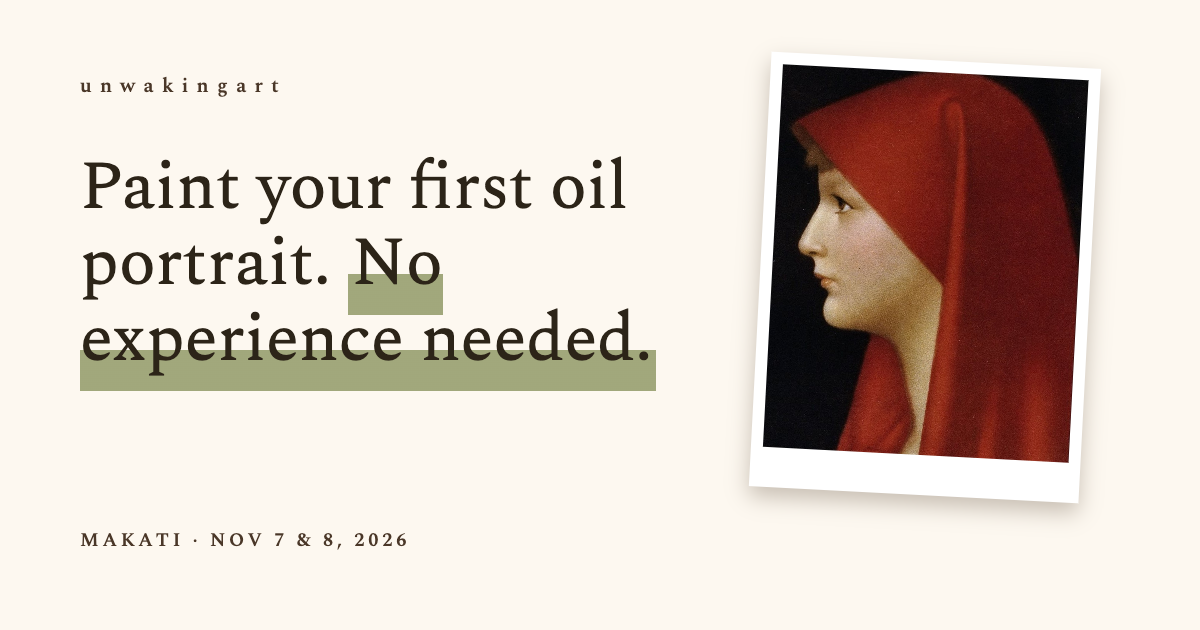
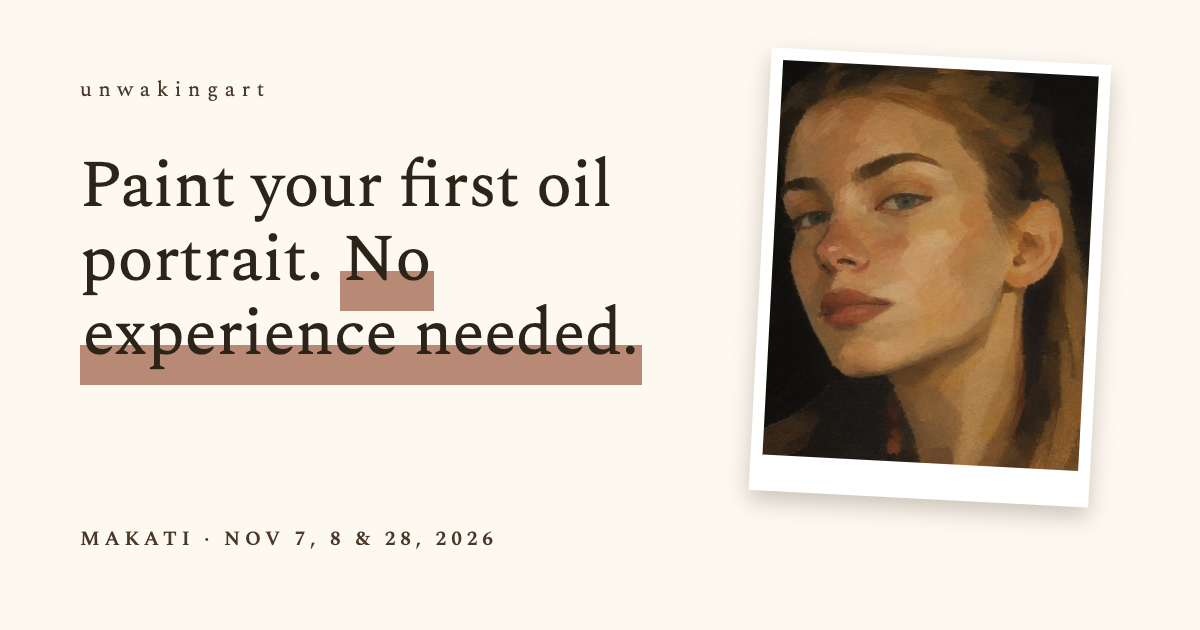
Workshop page: the Yoad portrait in place of Fabiola, rust in place of olive; new link preview
Claude-Session: https://claude.ai/code/session_01UY1pHPMUn3UJZpaQ7W8h1W

diff --git a/index.html b/index.html
@@ -16,7 +16,27 @@
 <meta name="description" content="Paint your first oil portrait in a three-hour beginner oil painting workshop at Kind Cookie Cafe, Salcedo Village, Makati. Nov 28, 2026. All materials provided, no experience needed. ₱2,000 early bird.">
 <!-- Search engines read these. Keep them in step with the WORKSHOPS list: one entry per date that can still be booked. -->
 <script type="application/ld+json">{"@context": "https://schema.org", "@type": "EducationEvent", "name": "Beginner Oil Painting Portrait Workshop", "description": "A three-hour beginner oil painting workshop. Paint an oil portrait with four colors. All materials provided, no experience needed.", "startDate": "2026-11-28T11:30:00+08:00", "endDate": "2026-11-28T14:30:00+08:00", "eventStatus": "https://schema.org/EventScheduled", "eventAttendanceMode": "https://schema.org/OfflineEventAttendanceMode", "location": {"@type": "Place", "name": "Kind Cookie Cafe", "address": {"@type": "PostalAddress", "addressLocality": "Makati", "addressRegion": "Metro Manila", "addressCountry": "PH", "streetAddress": "Salcedo Village"}}, "image": ["https://unwakingart.github.io/workshops/images/preview.png"], "organizer": {"@type": "Organization", "name": "unwakingart", "url": "https://unwakingart.github.io/", "sameAs": ["https://www.instagram.com/unwakingart/"]}, "offers": {"@type": "Offer", "url": "https://unwakingart.github.io/workshops/", "price": "2000", "priceCurrency": "PHP", "availability": "https://schema.org/InStock", "validFrom": "2026-10-09"}}</script>
-<link rel="stylesheet" href="brand/site.css?v=20261014081538">
+<link rel="stylesheet" href="brand/site.css?v=20261014190534">
+<style>
+  /* The shared stylesheet's olive greens in the rust of the Yoad portrait posts (Michelle, 2026-10-14); the Hanoi page keeps its own colors */
+  .nb-month { font-size: 22px; line-height: 1.2; color: #4A3728; margin: 0 0 6px; display: inline; background: linear-gradient(transparent 60%, rgba(138,63,34,0.6) 60%); padding: 0 4px; }
+  .ann { background: #6A2E17; color: #F3EAD3; }
+  .menu a.on { background: #8A3F22; color: #F3EAD3; border-color: #8A3F22; }
+  .h-belief mark { background: linear-gradient(transparent 60%, rgba(138,63,34,0.6) 60%); color: inherit; padding: 0 3px; }
+  .app input:focus, .app textarea:focus { outline: 2px solid #8A3F22; outline-offset: 1px; }
+  .app-head span { background: linear-gradient(transparent 60%, rgba(138,63,34,0.6) 60%); padding: 0 4px; -webkit-box-decoration-break: clone; box-decoration-break: clone; }
+  .app-sticky { position: absolute; z-index: 0; right: 14px; top: 22px; padding: 6px 10px 7px; font-size: 9px; font-weight: 600; letter-spacing: 0.16em; text-transform: uppercase; color: #EBD3C0; transform: rotate(3deg); text-align: center; }
+  .app input:focus, .app textarea:focus { outline: 0; background-color: rgba(138,63,34,0.16); }
+  .app .app-pick:has(input:checked) { background: rgba(138,63,34,0.6); }
+  .app .app-send { background: #8A3F22; color: #F3EAD3; border: 1px solid #4A3728; box-shadow: 3px 3px 0 #4A3728; }
+  .app .app-send:hover { background: #6A2E17; }
+  .end-line mark { background: linear-gradient(transparent 60%, rgba(138,63,34,0.6) 60%); color: inherit; padding: 0 5px; }
+  .end .end-cta { background: #8A3F22; color: #F3EAD3; border: 1px solid #4A3728; box-shadow: 3px 3px 0 #4A3728; margin-top: 22px; }
+  .end .end-cta:hover { background: #6A2E17; }
+  .note.two::after, .app-sticky::after { background: #7A3519 url(cream-paper.jpg) center / 520px auto; background-blend-mode: multiply; }
+  .note.two .g-rows dt, .note.two .g-head, .note.two .g-not li { color: #EBD3C0; }
+</style>
+
 <style>
   /* Additions for the workshop page; everything else comes from brand/site.css (the Hanoi cohort page's look). */
   .h-print img { aspect-ratio: 4 / 5; object-position: 30% 30%; }
@@ -33,7 +53,7 @@
   .date-filter { display: flex; justify-content: center; flex-wrap: wrap; gap: 6px; margin: 0 0 30px; }
   .date-filter button { font: inherit; font-size: 11px; font-weight: 600; letter-spacing: 0.14em; text-transform: uppercase; padding: 5px 12px; cursor: pointer; background: #4A3728; color: #FDF8F0; border: 1px solid #4A3728; border-radius: 0; }
   .date-filter button:hover { background: #6B4A2E; }
-  .date-filter button.on { background: #5C682E; color: #F3EAD3; border-color: #5C682E; }
+  .date-filter button.on { background: #8A3F22; color: #F3EAD3; border-color: #8A3F22; }
   .date-empty { text-align: center; margin: 0; }
   .seat-full { color: #8A3B2A; font-weight: 600; }
   .note.two .seat-full { color: #F3EAD3; }
@@ -63,7 +83,7 @@
   .app-closed { text-align: center; padding: 10px 0 4px; }
   .app-closed h3 { font-size: 18px; margin-bottom: 6px; }
   /* A pinned button on phones and tablets: it shows while no other button to the form, and not the form itself, is on screen. */
-  .pin-cta { position: fixed; left: 50%; bottom: calc(18px + env(safe-area-inset-bottom, 0px)); z-index: 40; transform: translate(-50%, 16px); opacity: 0; pointer-events: none; transition: opacity 0.25s ease, transform 0.25s ease; white-space: nowrap; text-decoration: none; font-size: 12.5px; font-weight: 600; letter-spacing: 0.14em; text-transform: uppercase; padding: 12px 28px; border-radius: 40px; background: #5C682E; color: #F3EAD3; border: 1px solid #4A3728; box-shadow: 3px 3px 0 #4A3728, 0 8px 18px rgba(60,40,20,0.28); }
+  .pin-cta { position: fixed; left: 50%; bottom: calc(18px + env(safe-area-inset-bottom, 0px)); z-index: 40; transform: translate(-50%, 16px); opacity: 0; pointer-events: none; transition: opacity 0.25s ease, transform 0.25s ease; white-space: nowrap; text-decoration: none; font-size: 12.5px; font-weight: 600; letter-spacing: 0.14em; text-transform: uppercase; padding: 12px 28px; border-radius: 40px; background: #8A3F22; color: #F3EAD3; border: 1px solid #4A3728; box-shadow: 3px 3px 0 #4A3728, 0 8px 18px rgba(60,40,20,0.28); }
   .pin-cta.show { opacity: 1; pointer-events: auto; transform: translate(-50%, 0); }
   .pin-cta.snap { transition: none; }
   @keyframes pin-land { 0% { transform: scale(1.06); box-shadow: 3px 3px 0 #4A3728, 0 8px 18px rgba(60,40,20,0.28); } 55% { transform: scale(0.985); } 100% { transform: scale(1); box-shadow: 3px 3px 0 #4A3728, 0 0 0 rgba(60,40,20,0); } }
@@ -77,12 +97,12 @@
   .pin-nav-in { display: flex; gap: 6px; overflow-x: auto; white-space: nowrap; padding: 8px 14px; scrollbar-width: none; -webkit-overflow-scrolling: touch; }
   .pin-nav-in::-webkit-scrollbar { display: none; }
   .pin-nav a { flex: none; background: #4A3728; color: #FDF8F0; border: 1px solid #4A3728; text-decoration: none; font-size: 10px; font-weight: 600; letter-spacing: 0.12em; text-transform: uppercase; padding: 5px 10px; }
-  .pin-nav a.on { background: #5C682E; color: #F3EAD3; border-color: #5C682E; }
+  .pin-nav a.on { background: #8A3F22; color: #F3EAD3; border-color: #8A3F22; }
   @media (max-width: 899px) { section[id] { scroll-margin-top: 52px; } }
   @media (min-width: 900px) { .pin-nav { display: none; } }
   @media (prefers-reduced-motion: reduce) { .pin-nav { transition: none; } }
 </style>
-<script>(function(){var v="20261014081538";function c(){fetch("version.txt?"+Date.now(),{cache:"no-store"}).then(function(r){return r.text()}).then(function(t){t=t.trim();if(/^\d+$/.test(t)&&t!==v&&location.search.indexOf("v="+t)<0){location.replace(location.pathname+"?v="+t+location.hash)}}).catch(function(){})}c();document.addEventListener("visibilitychange",function(){if(!document.hidden)c()});window.addEventListener("pageshow",function(e){if(e.persisted)c()})})();</script>
+<script>(function(){var v="20261014190534";function c(){fetch("version.txt?"+Date.now(),{cache:"no-store"}).then(function(r){return r.text()}).then(function(t){t=t.trim();if(/^\d+$/.test(t)&&t!==v&&location.search.indexOf("v="+t)<0){location.replace(location.pathname+"?v="+t+location.hash)}}).catch(function(){})}c();document.addEventListener("visibilitychange",function(){if(!document.hidden)c()});window.addEventListener("pageshow",function(e){if(e.persisted)c()})})();</script>
 </head>
 <body>
 
@@ -105,13 +125,13 @@
         <p class="lede">A small beginner workshop at a café in Makati. You learn to see the portrait in values, mix every color from four paints and build it in layers, from shadow to highlight. Then you take your portrait home.</p>
       </div>
       <div class="h-stage">
-        <div class="h-print"><img src="images/fabiola.jpg" alt="A painted portrait of a young woman in profile, wearing a red veil against a dark background"></div>
+        <div class="h-print"><img src="images/portrait-006.jpg" alt="A painted study of a young woman looking to the side, on a black ground"></div>
         <div class="h-note"><p class="h-note-title">[ Oil Painting Portrait ]</p>
           <dl><dt>Dates</dt><dd id="hero-dates">Nov 28, 2026</dd><dt>Time</dt><dd>11:30am to 2:30pm</dd><dt>Location</dt><dd>Makati</dd><dt>Fee</dt><dd>₱2,000 early bird<br>₱2,200 regular<br>₱2,400 walk-in</dd><dt>Seats</dt><dd><span data-seats-range>6 to 7</span> each day</dd></dl>
         </div>
       </div>
     </div>
-    <p class="h-credit">The portrait we paint: after Jean-Jacques Henner, <em>Fabiola</em>, 1885.</p>
+    <p class="h-credit">The portrait we paint: a painted study after a photo by Yoad Shejtman.</p>
   </section>
 
   <div class="divider"></div>
